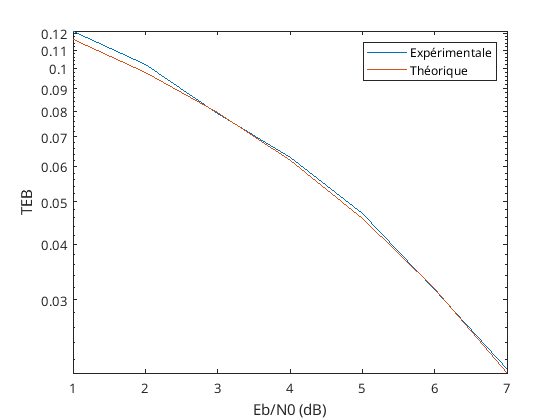
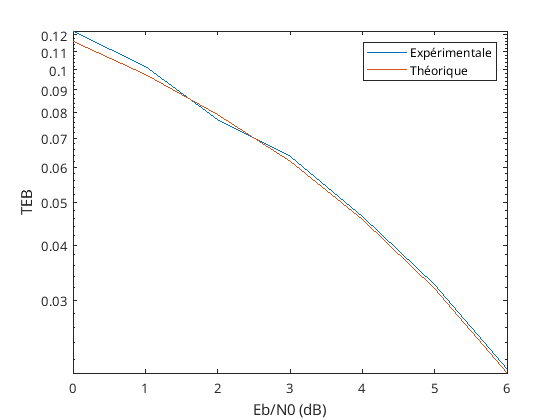
fix: teb abscisse

diff --git a/dvbs_equ.m b/dvbs_equ.m
@@ -115,10 +115,10 @@ function [DSP, f, TEB_xp] = dvbs_equ()
 
     % Affichage de la TEB expérimentale vs. la TEB théorique
     figure("Name", "TEB expérimentale");
-    semilogy(TEB_xp);
+    semilogy(0:1:6, TEB_xp);
     hold on;
     % TEB théorique calculée avec formule cours : Nyquist + adapté + seuil en 0 (?)
-    semilogy(TEB_th);
+    semilogy(0:1:6, TEB_th);
     hold off;
     legend('Expérimentale', 'Théorique')
     xlabel("Eb/N0 (dB)");

diff --git a/dvbs2.m b/dvbs2.m
@@ -118,10 +118,10 @@ function [DSP, f, TEB_xp] = dvb2()
 
     % Affichage de la TEB expérimentale vs. la TEB théorique
     figure("Name", "TEB expérimentale");
-    semilogy(TEB_xp);
+    semilogy(0:1:6, TEB_xp);
     hold on;
     % TEB théorique calculée avec formule cours : Nyquist + adapté + seuil en 0 (?)
-    semilogy(TEB_th);
+    semilogy(0:1:6, TEB_th);
     hold off;
     legend('Expérimentale', 'Théorique')
     xlabel("Eb/N0 (dB)");

diff --git a/qask.m b/qask.m
@@ -120,10 +120,10 @@ function [DSP, f, TEB_xp] = qask()
 
     % Affichage de la TEB expérimentale vs. la TEB théorique
     figure("Name", "TEB expérimentale");
-    semilogy(TEB_xp);
+    semilogy(0:1:6, TEB_xp);
     hold on;
     % TEB théorique calculée avec formule cours : Nyquist + adapté + seuil en 0 (?)
-    semilogy(TEB_th);
+    semilogy(0:1:6, TEB_th);
     hold off;
     legend('Expérimentale', 'Théorique')
     xlabel("Eb/N0 (dB)");

diff --git a/dvbs.m b/dvbs.m
@@ -129,10 +129,10 @@ ylabel("DSP (dB)");
 
 % Affichage de la TEB expérimentale vs. la TEB théorique
 figure("Name", "TEB expérimentale et TEB théorique");
-semilogy(TEB_xp);
+semilogy(0:1:6, TEB_xp);
 hold on;
 % TEB théorique calculée avec formule cours : Nyquist + adapté + seuil en 0 (?)
-semilogy(TEB_th);
+semilogy(0:1:6, TEB_th);
 hold off;
 legend('Expérimentale', 'Théorique')
 xlabel("Eb/N0 (dB)");

diff --git a/comp_dvbs_dvbs2.m b/comp_dvbs_dvbs2.m
@@ -4,9 +4,9 @@
 close all; clc;
 
 figure;
-semilogy(TEB_xpA);
+semilogy(0:1:6, TEB_xpA);
 hold on;
-semilogy(TEB_xpB);
+semilogy(0:1:6, TEB_xpB);
 hold off;
 legend('TEB DVBS', 'TEB DVBS2')
 % title("Comparaison des TEB")

diff --git a/comp_qask_dvbs.m b/comp_qask_dvbs.m
@@ -4,9 +4,9 @@
 close all; clc;
 
 figure;
-semilogy(TEB_xpA);
+semilogy(0:1:6, TEB_xpA);
 hold on;
-semilogy(TEB_xpB);
+semilogy(0:1:6, TEB_xpB);
 hold off;
 legend('TEB 4-ASK', 'TEB QPSK')
 % title("Comparaison des TEB")
